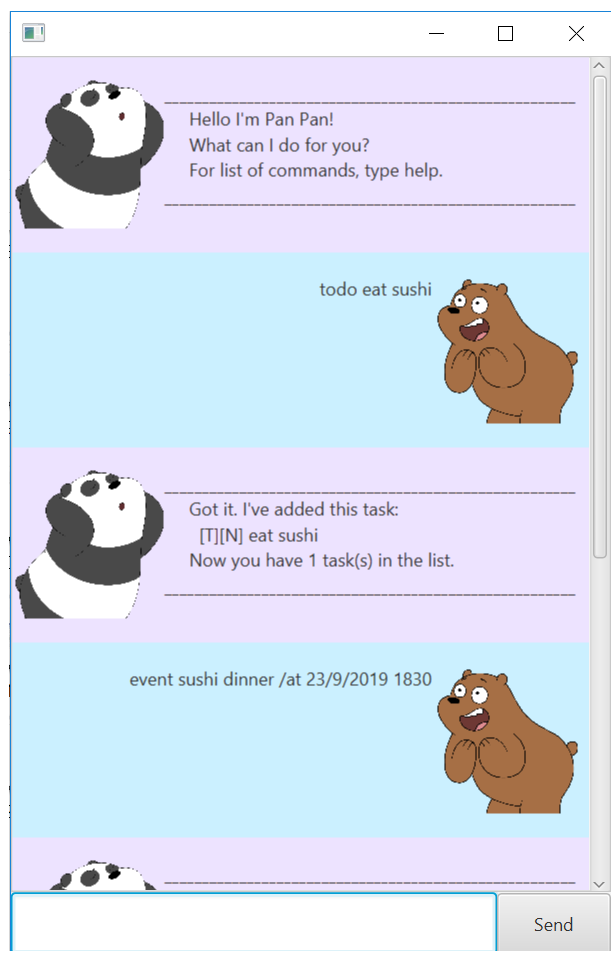
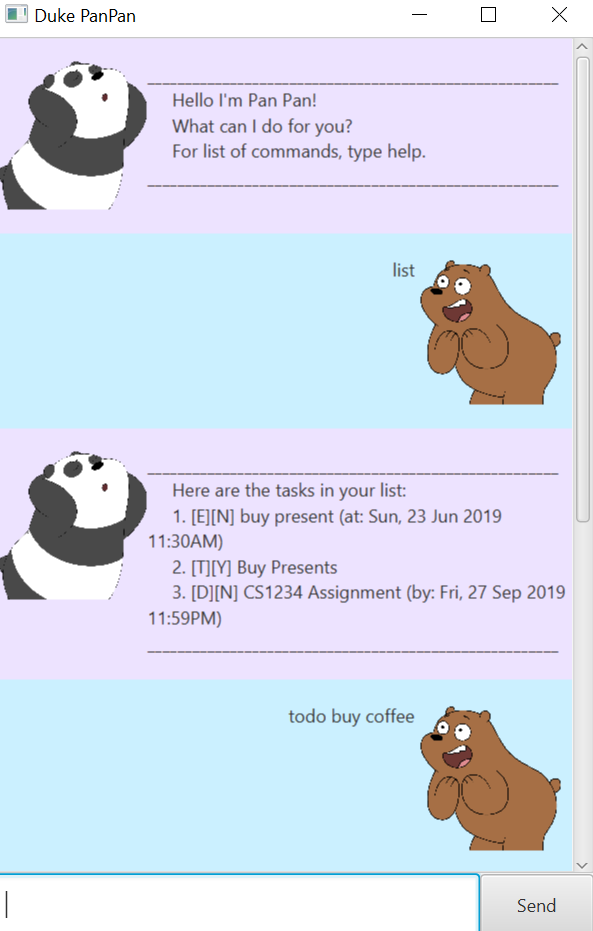
Update README

diff --git a/src/main/java/Main.java b/src/main/java/Main.java
@@ -22,6 +22,7 @@ public class Main extends Application {
             AnchorPane ap = fxmlLoader.load();
             Scene scene = new Scene(ap);
             stage.setScene(scene);
+            stage.setTitle("Duke PanPan");
             fxmlLoader.<MainWindow>getController().setDuke(duke);
             stage.show();
 

diff --git a/docs/README.md b/docs/README.md
@@ -2,7 +2,7 @@
 
 
 ## Features 
-Duke is a simple and friendly Task Manager for any user who prefers the CLI. Read below to see how you can get Duke to help you better manage your daily tasks! :relaxed:
+Duke is a simple and friendly Task Manager for any user who prefers the CLI. Read below to see how you can get Duke to help you better manage your daily tasks! ^-^
 ### Add Tasks
 Duke classifies your tasks into Deadline, Event and Todo.
 
@@ -24,9 +24,9 @@ A task is printed in the format:
 Deadline command format:
 `Deadline <Deadline Description> /by DD/MM/YYYY HHMM`
 
-Example of Usage:`deadline Complete CS1234 Assignment /by 23/9/2019 2359`
-
-Expected outcome: `[D][N] Complete CS1234 /by Mon, 23 Sep 2019 11:59PM`
+>Example of Usage:`deadline Complete CS1234 Assignment /by 23/9/2019 2359`
+>
+>Expected outcome: `[D][N] Complete CS1234 /by Mon, 23 Sep 2019 11:59PM`
 
 
 ### `Event` - Adds an Event to the Task List
@@ -34,42 +34,41 @@ Expected outcome: `[D][N] Complete CS1234 /by Mon, 23 Sep 2019 11:59PM`
 Event command format:
 `Event <Event Description> /at DD/MM/YYYY HHMM`
 
-Example of Usage: `event Food Festival /at 16/7/2019 1730`
-
-Expected outcome: `[E][N] Food Festival /at Tue, 16 Jul 2019, 05:30PM`
+>Example of Usage: `event Food Festival /at 16/7/2019 1730`
+>
+>Expected outcome: `[E][N] Food Festival /at Tue, 16 Jul 2019, 05:30PM`
 
 ### `Todo` - Adds a Todo to the Task List
 
 Todo command format:
 `Todo <Todo Desription>`
 
-Example of usage: `todo Buy Toothpaste`
-
-Expected outcome: `[T][N] Buy Toothpaste`
+>Example of usage: `todo Buy Toothpaste`
+>
+>Expected outcome: `[T][N] Buy Toothpaste`
 
 
 ### `List` - Lists All Items on the Task List
 
-Example of usage: 
-`list`
-
-Expected outcome:
-`Here are the items on your list:`
-
-`1. [D][N] Complete CS1234 /by Mon, 23 Sep 2019 11:59PM`
-`2. [E][N] Food Festival /at Tue, 16 Jul 2019, 05:30PM`
-`3. [T][N] Buy Toothpaste`
+>Example of usage: 
+>`list`
+>
+>Expected outcome:\
+>`Here are the items on your list:`\
+>`1. [D][N] Complete CS1234 /by Mon, 23 Sep 2019 11:59PM`\
+>`2. [E][N] Food Festival /at Tue, 16 Jul 2019, 05:30PM`\
+>`3. [T][N] Buy Toothpaste`
 
 ### `Delete` - Deletes Task
 Delete command format:
 `delete <TaskNo>`
 
-Example of usage: `delete 2`
-
-Expected outcome: 
-`Noted. I've removed this task:`
-`2. [E][N] Food Festival /at Tue, 16 Jul 2019, 05:30PM`
-`Now you have 2 tasks(s) in the list.`
+>Example of usage: `delete 2`
+>
+>Expected outcome: \
+>`Noted. I've removed this task:`\
+>`2. [E][N] Food Festival /at Tue, 16 Jul 2019, 05:30PM`\
+>`Now you have 2 tasks(s) in the list.`
 
 ### `Done` - Marks Task as Done 
 When a task is not done, the task is marked with `[N]`.
@@ -78,11 +77,11 @@ When a task is done, it is marked with `[Y]`.
 Done command format:
 `done <TaskNo>`
 
-Example of usage: `done 3`
-
-Expected outcome: 
-`Nice! I've marked this task as done:`
-`3. [T][Y] Buy Toothbrush`
+>Example of usage: `done 3`
+>
+>Expected outcome: \
+>`Nice! I've marked this task as done:`\
+>`3. [T][Y] Buy Toothbrush`
 
 
 ### `Find` - Finds Task in Task List with Matching Keyword/Phrase
@@ -90,47 +89,49 @@ Expected outcome:
 Find command format:
 `Find <Keyword/Key Phrase>`
 
-Example of usage: 
-`find Food`
-
-Expected outcome:
-`Here are the matching tasks in your list:`
-`1. [E][N] Food Festival /at Tue, 16 Jul 2019, 05:30PM`
+>Example of usage: 
+>`find Food`
+>
+>Expected outcome:\
+>`Here are the matching tasks in your list:`\
+>`1. [E][N] Food Festival /at Tue, 16 Jul 2019, 05:30PM`
 
 ### `Update` - Updates Task Details
 
 Update command format:
-`update | <TaskNo> | <UpdateType> | <UpdateInfo> `
+`update | <TaskNo> | <UpdateType> | <UpdateInfo> ` 
 
 To update task description, enter:
 `update | <TaskNo> | desc | <NewDescription>`
 
-Example of usage: 
-`update | 3 | desc | Buy Toothbrush`
-
-Expected outcome:
-`Got it. Your task is now updated as:`
-`3. [T][N] Buy Toothbrush`
+> Example of usage: 
+>`update | 3 | desc | Buy Toothbrush`
+>
+>Expected outcome:\
+>`Got it. Your task is now updated as:`\
+>`3. [T][N] Buy Toothbrush` 
 
 To update task date*, enter:
 `update | <TaskNo> | date | <NewDate in DD/MM/YYYY format>`
 
-Example of usage: 
-`update | 2 | date | 15/7/2019`
-
-Expected outcome:
-`Got it. Your task is now updated as:`
-`2. [E][N] Food Festival /at Mon, 15 Jul 2019, 05:30PM`
+>Example of usage: 
+>`update | 2 | date | 15/7/2019`
+>
+>Expected outcome:\
+>`Got it. Your task is now updated as:`\
+>`2. [E][N] Food Festival /at Mon, 15 Jul 2019, 05:30PM`
 
 To update task time*, enter:
 `update | <TaskNo> | time | <NewTime in HHMM format>`
 
-Example of usage: 
-`update | 1 | time | 0900`
+>Example of usage: 
+>`update | 1 | time | 0900`
+>
+>Expected outcome:\
+>`Got it. Your task is now updated as:`\
+>`1. [D][N] Complete CS1234 /by Mon, 23 Sep 2019 09:00AM`
 
-Expected outcome:
-`Got it. Your task is now updated as:`
-`1. [D][N] Complete CS1234 /by Mon, 23 Sep 2019 09:00AM`
+*Only for Deadline and Event items.
 
 ### `Help` - Lists Command Format
 If you forget the commands when using the application, you can always type `help` to refer to the formats for the above commands.
